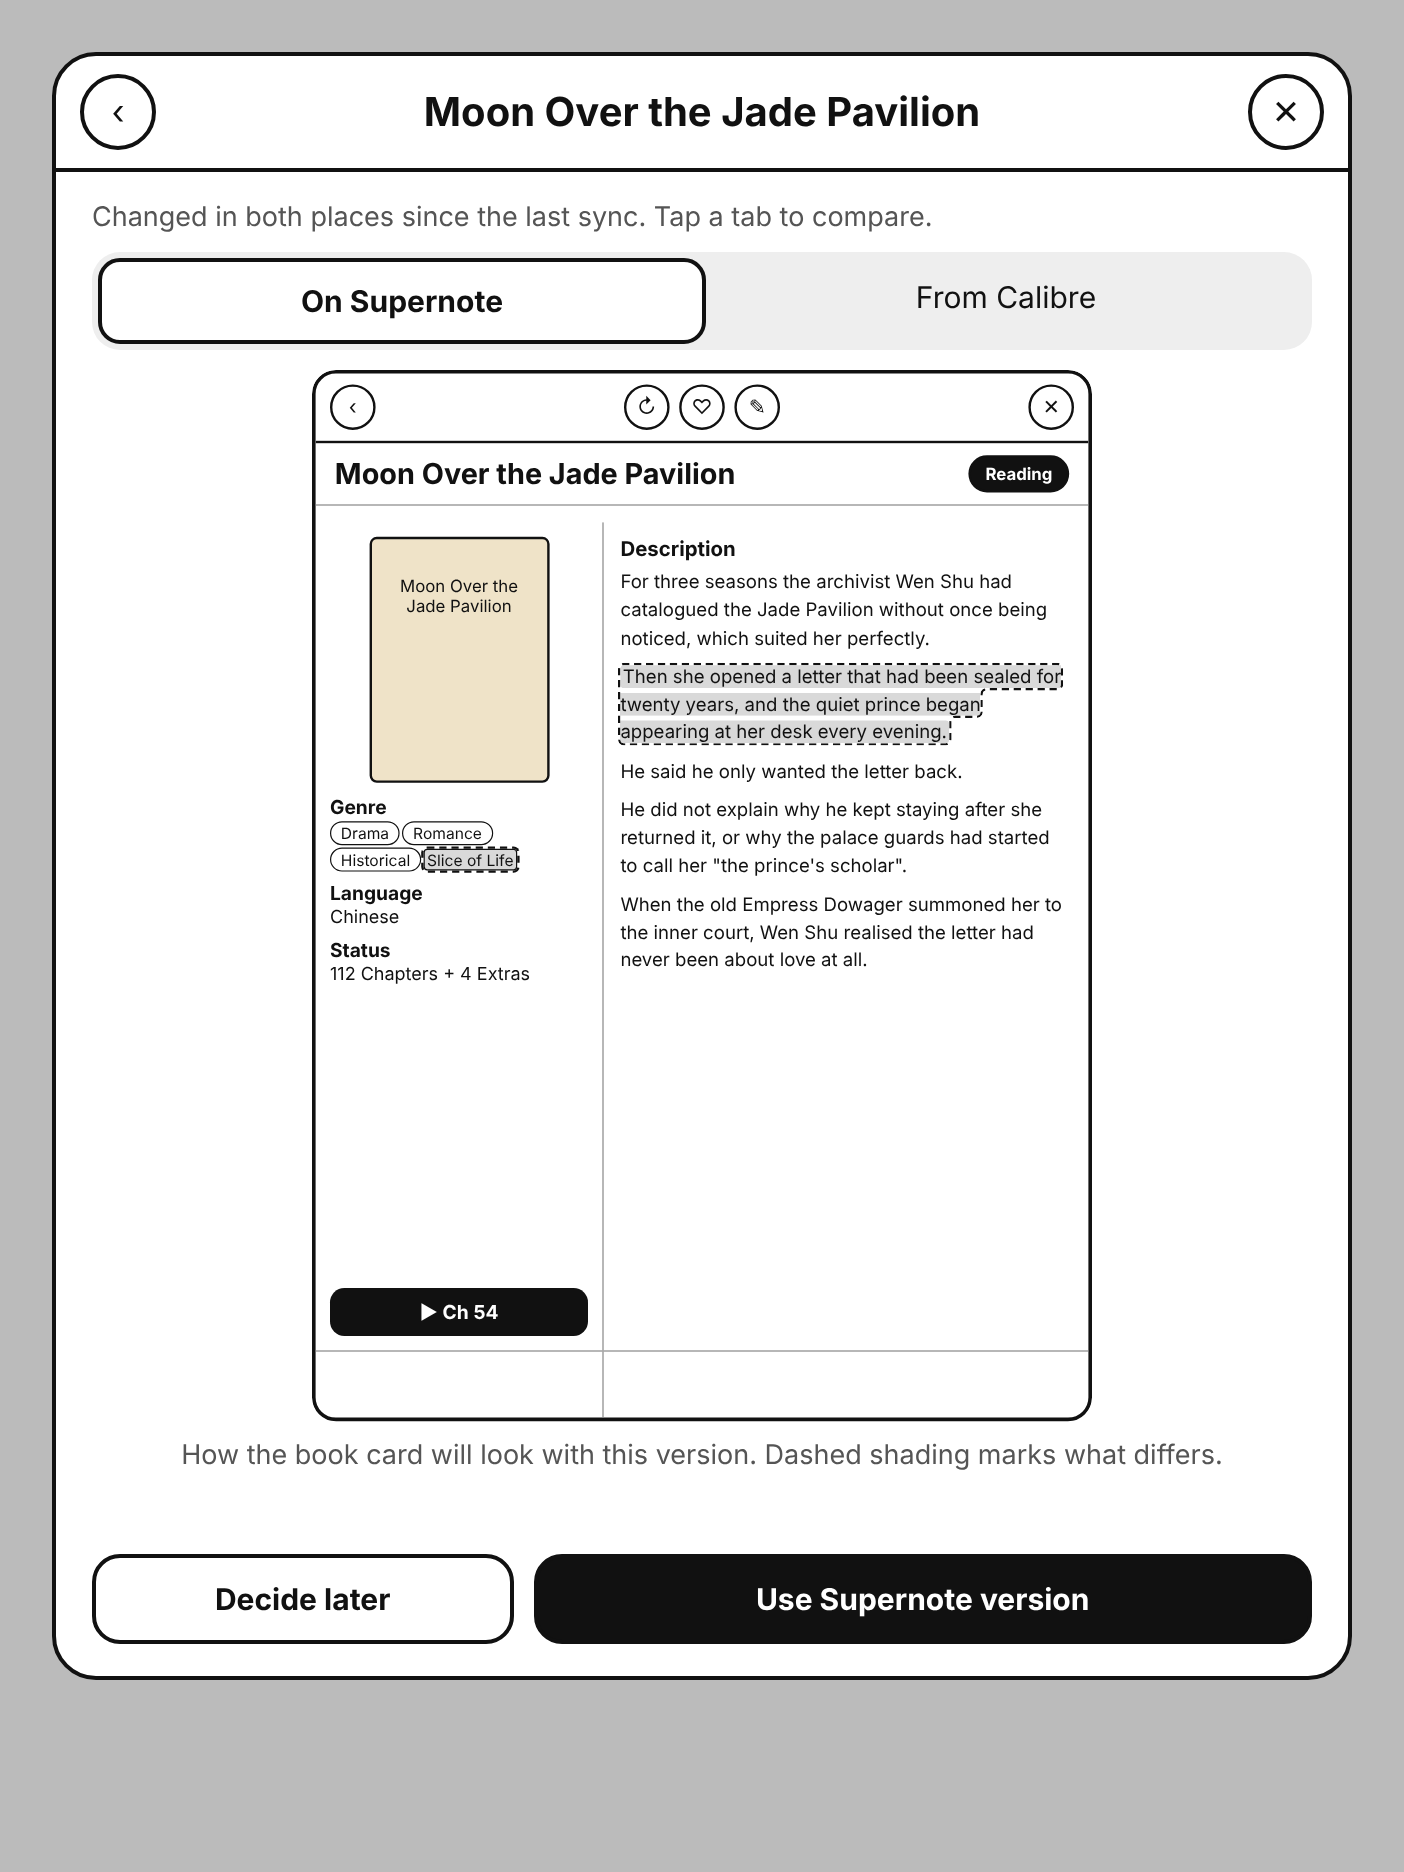
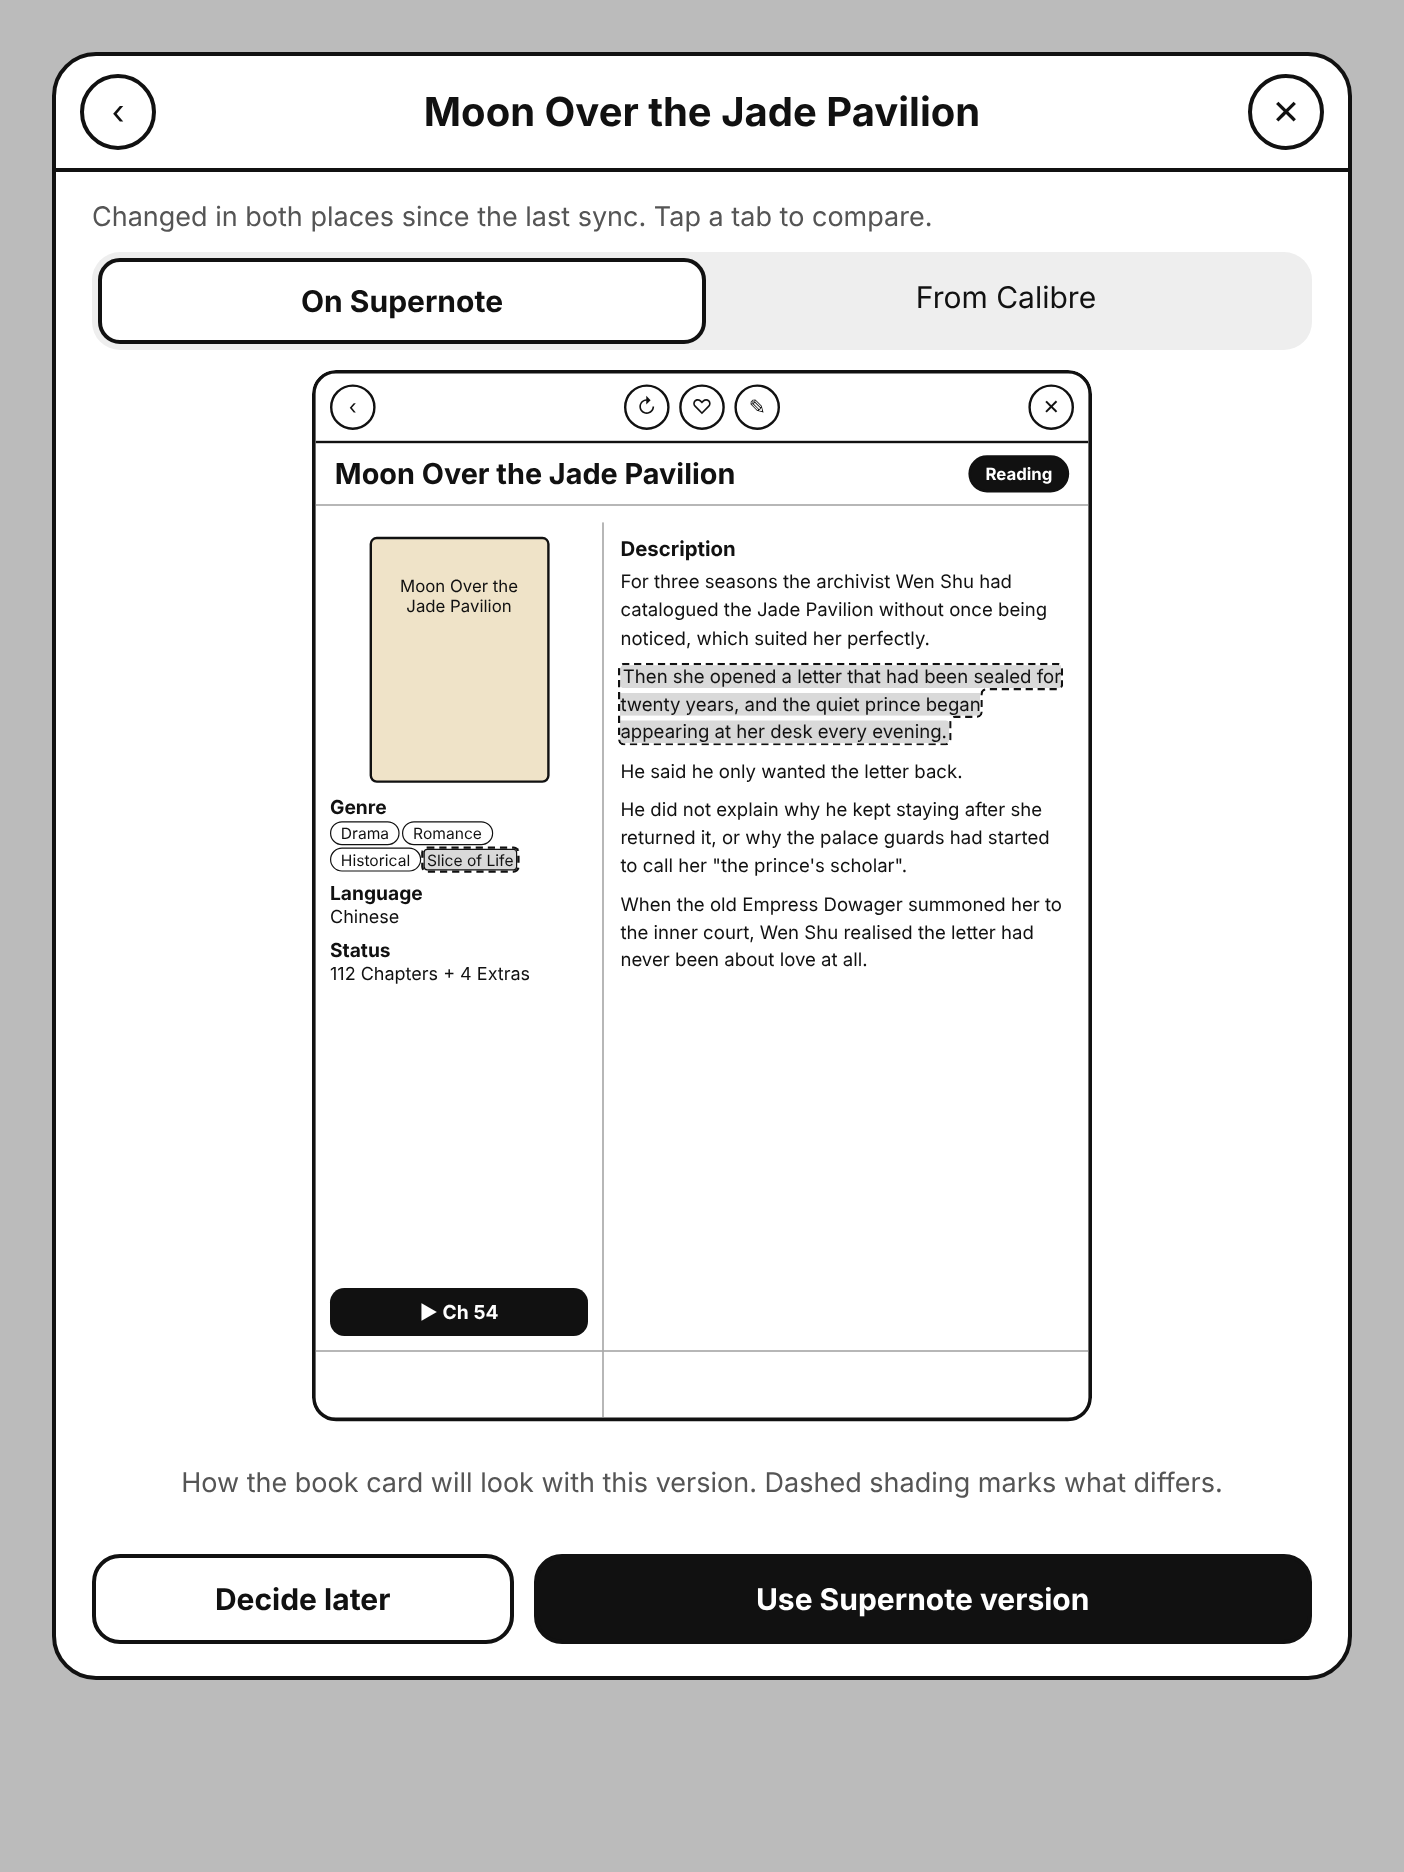
Mockup: more space under the preview card
Claude-Session: https://claude.ai/code/session_01X56ddDHNWUKJn2BBuoFg9X

Changed region(s): [[0.1225, 0.7746, 0.8575, 0.8056]]

diff --git a/tools/mockups/sync.html b/tools/mockups/sync.html
@@ -77,7 +77,7 @@
   <p>He said he only wanted the letter back.</p>
   <p>He did not explain why he kept staying after she returned it, or why the palace guards had started to call her "the prince's scholar".</p>
   <p>When the old Empress Dowager summoned her to the inner court, Wen Shu realised the letter had never been about love at all.</p><div class="pg"></div></div></div></div></div>
-  <div class="sub" style="margin-top:8px;text-align:center">How the book card will look with this version. Dashed shading marks what differs.</div>
+  <div class="sub" style="margin-top:22px;text-align:center">How the book card will look with this version. Dashed shading marks what differs.</div>
  </div>
  <div class="foot"><div class="btn" style="flex:1">Decide later</div><div class="btn dark" style="flex:2">Use Supernote version</div></div>
 </div></div>
@@ -99,7 +99,7 @@
   <p>He said he only wanted the letter back.</p>
   <p>He did not explain why he kept staying after she returned it, or why the palace guards had started to call her "the prince's scholar".</p>
   <p>When the old Empress Dowager summoned her to the inner court, Wen Shu realised the letter had never been about love at all.</p><div class="pg"></div></div></div></div></div>
-  <div class="sub" style="margin-top:8px;text-align:center">How the book card will look with this version. Dashed shading marks what differs.</div>
+  <div class="sub" style="margin-top:22px;text-align:center">How the book card will look with this version. Dashed shading marks what differs.</div>
  </div>
  <div class="foot"><div class="btn" style="flex:1">Decide later</div><div class="btn dark" style="flex:2">Use Calibre version</div></div>
 </div></div>
